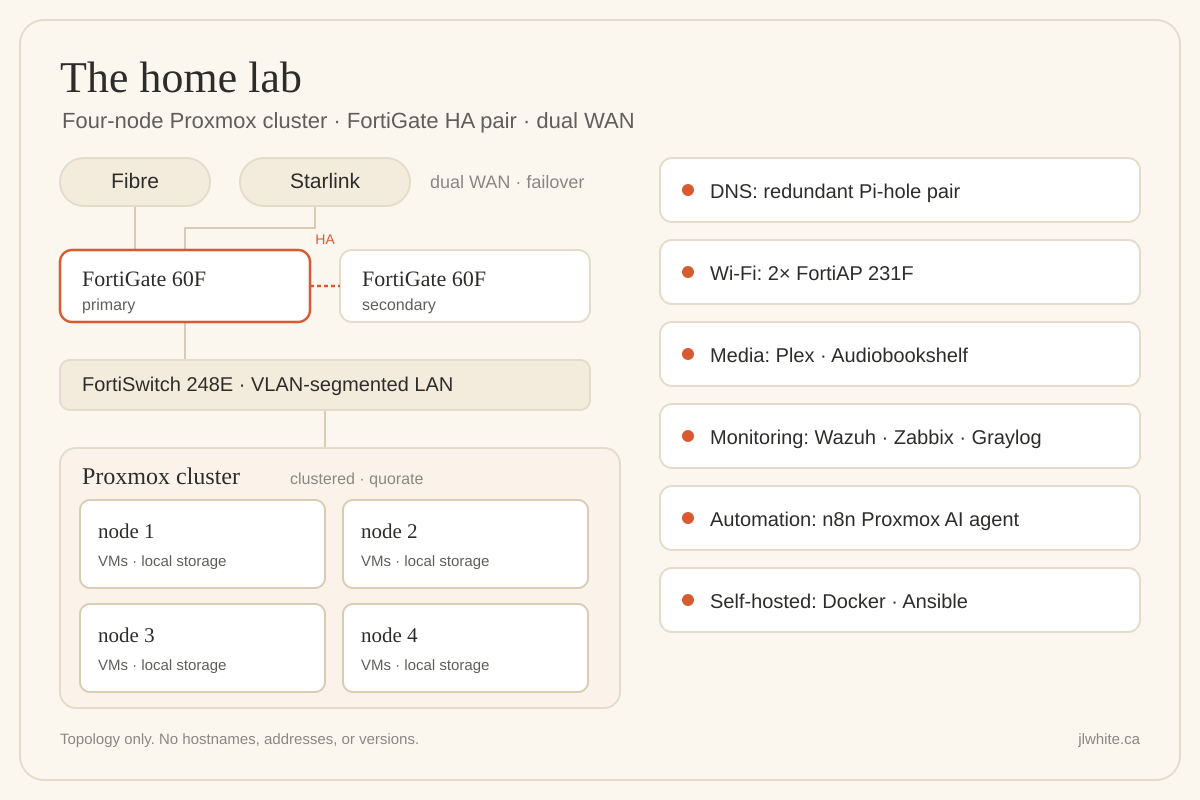
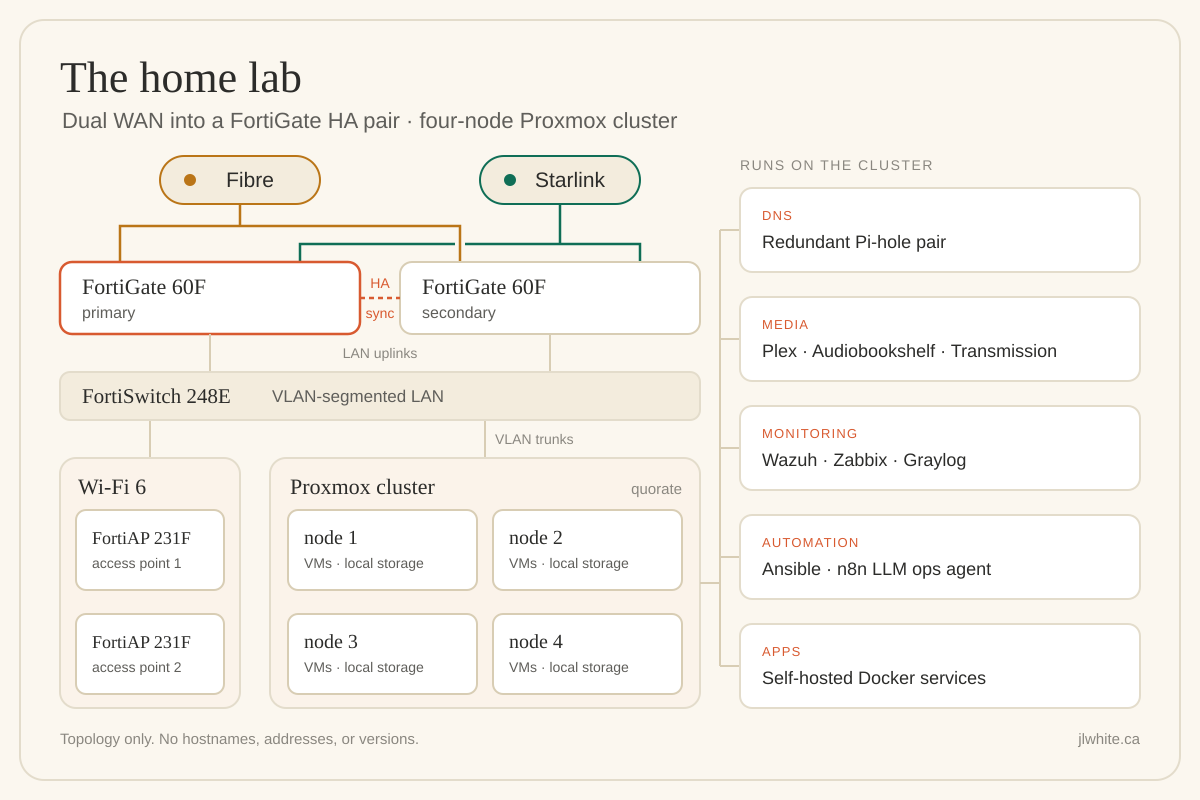
Home lab: redraw the topology with both WANs into both firewalls
Fibre and Starlink now each feed both FortiGates (fibre drawn over
Starlink at the one crossing), both firewalls uplink to the switch,
and the APs and cluster hang off the switch as part of the topology.
Services move to a column the cluster feeds. The page text and cover
alt text say each link is cabled into both units.

diff --git a/src/content/projects/home-lab-overview/index.md b/src/content/projects/home-lab-overview/index.md
@@ -5,7 +5,7 @@ date: 2026-06-10
 summary: A four-node Proxmox cluster behind a FortiGate HA pair, with Fortinet switching and Wi-Fi, redundant DNS, and the self-hosted services I actually use.
 featured: true
 cover: ./cover.png
-coverAlt: Architecture diagram of a four-node Proxmox cluster behind a FortiGate 60F HA pair, with dual WAN, a FortiSwitch 248E carrying the VLAN-segmented LAN, FortiAP Wi-Fi, and self-hosted services
+coverAlt: Topology diagram. Fibre and Starlink each feed both FortiGate 60F firewalls in an HA pair. Both firewalls uplink to a FortiSwitch 248E, which serves two FortiAP 231F access points and a four-node Proxmox cluster running DNS, media, monitoring, automation, and self-hosted apps
 tags: ['homelab', 'proxmox', 'fortinet', 'networking', 'docker', 'automation']
 draft: false
 ---
@@ -18,7 +18,7 @@ Four **Lenovo M900 Tiny** nodes (`PMX-CLUSTER1`), clustered over knet and quorat
 
 ## The edge
 
-Two WAN links, fibre and Starlink, so the connection fails over instead of just failing. They terminate on a **pair of FortiGate 60F firewalls running as an HA cluster**, so one unit can fail, or be taken down for a firmware upgrade, without taking the internet edge with it. Behind them, a **FortiSwitch 248E** does the physical L2 and carries the VLAN-segmented LAN, and **two FortiAP 231F** Wi-Fi 6 access points handle wireless. DNS is a **redundant Pi-hole pair** (the subject of the [DNS/DNSSEC writeup](/writeups/pihole-dnssec-tcp-fallback)).
+Two WAN links, fibre and Starlink, so the connection fails over instead of just failing. They terminate on a **pair of FortiGate 60F firewalls running as an HA cluster**, and each link is cabled into both units, so either firewall can carry both WANs on its own. One unit can fail, or be taken down for a firmware upgrade, without taking the internet edge or either uplink with it. Behind them, a **FortiSwitch 248E** does the physical L2 and carries the VLAN-segmented LAN, and **two FortiAP 231F** Wi-Fi 6 access points handle wireless. DNS is a **redundant Pi-hole pair** (the subject of the [DNS/DNSSEC writeup](/writeups/pihole-dnssec-tcp-fallback)).
 
 The edge used to be virtual: an active/passive pfSense pair running as VMs on two of the cluster nodes, with the WANs, the LAN, and the pair's CARP/pfsync heartbeat each handed to the firewalls on their own VLAN tag ([how and why](/writeups/pfsense-ha-proxmox), and [the VLAN plumbing](/writeups/home-network-vlan-segmentation)). It worked, and it taught me a lot, but it tied the internet edge to the hypervisor. With the firewall, switching, and wireless on dedicated Fortinet hardware, cluster maintenance and the network's uptime no longer depend on each other.
 
